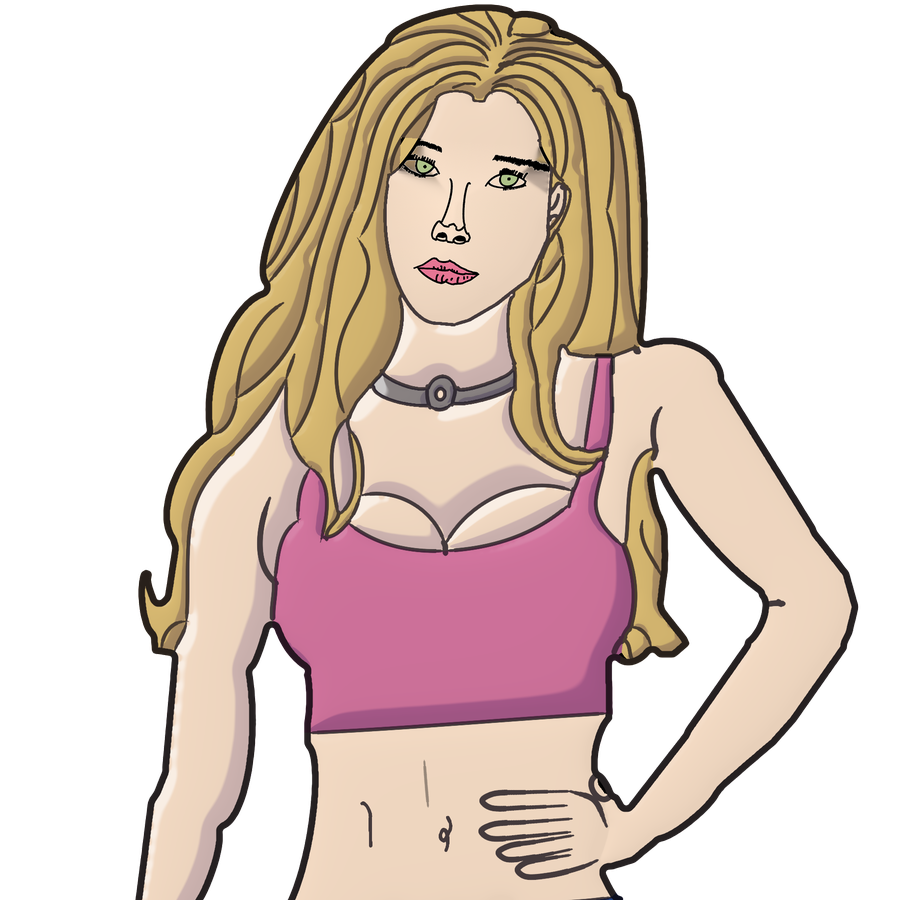
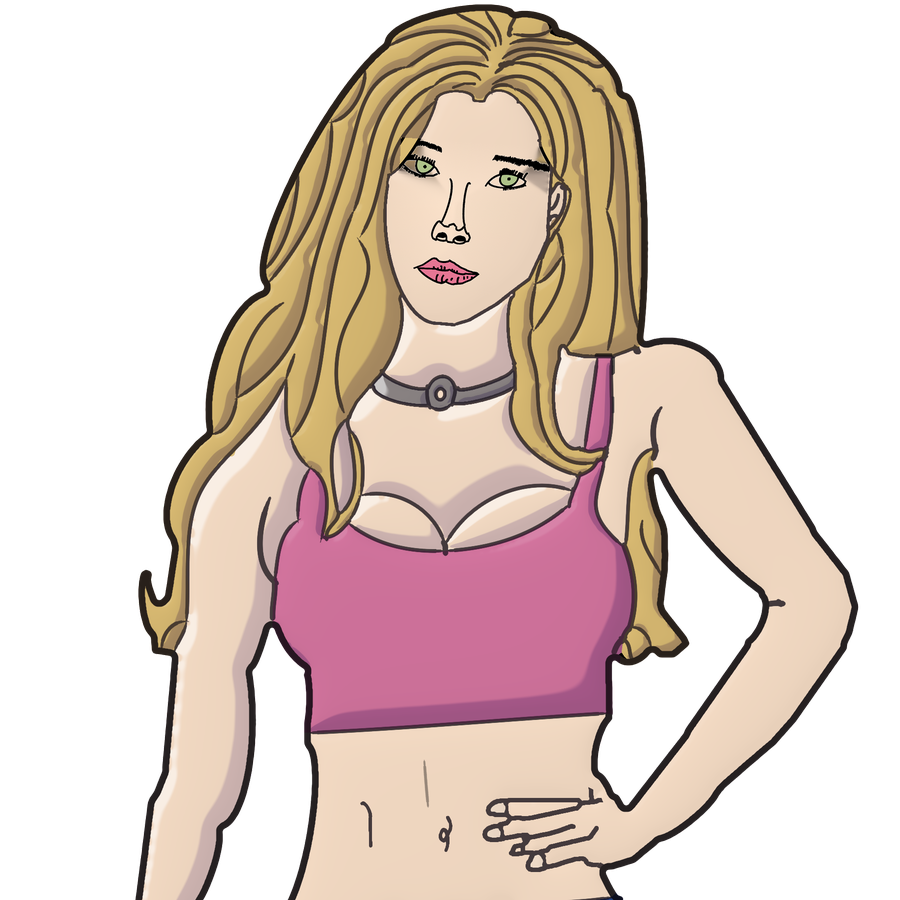
Use the drawn hands and Gus's drawn face, with even line weights
Elena's hands and Gus's face, ears and hairline go back to the original
drawing instead of the redrawn versions. Only the line weights change:
the outline gets the usual outline weight and every other line is
thinned to the inner weight round its middle, with the colour beside it
filling in where the ink is taken away.

Claude-Session: https://claude.ai/code/session_01Av3CChAmtEthREyWYpJj31

Changed region(s): [[0.5289, 0.8711, 0.6844, 0.9956]]

diff --git a/tools/refine_sprites.py b/tools/refine_sprites.py
@@ -126,6 +126,8 @@ LONG_DRIFT = 3.0
 ## SHAPES       changes to the figure's outline: "mirror" makes the outline in
 ##              region the mirror image of the other side about x = axis;
 ##              "shape" replaces it in region with these closed curves,
+## ORIGINAL     parts kept exactly as drawn, with only the line weights evened
+##              out to the same ones as everywhere else,
 ## REDRAWS      parts drawn again from scratch: the drawing in "erase" goes
 ##              (painted with the colour at "fill", if given, or else with the
 ##              colours round it) and these lines (curves through the points)
@@ -146,7 +148,6 @@ EXTRA_LINES = {
     ],
 }
 FEATURES = {
-    "gus": [(1848, 285), (2150, 285), (2150, 450), (2095, 600), (1905, 600), (1848, 450)],
     "zane": [(1912, 300), (2185, 300), (2185, 420), (2135, 572), (1960, 572), (1912, 420)],
     "emma": [(1912, 355), (2228, 355), (2228, 460), (2160, 655), (1985, 655), (1912, 460)],
     "elena": [(2047, 280), (2352, 300), (2345, 395), (2290, 420), (2230, 600), (2060, 600),
@@ -155,55 +156,16 @@ FEATURES = {
 SHAPES = {
     # Emma's right shoulder, as wide as her left one.
     "emma": [dict(mirror=2070, region=[(2330, 860), (2800, 860), (2800, 1290), (2330, 1290)])],
-    # Elena's hanging hand: two fingers and the thumb.
-    "elena": [dict(region=[(1395, 2100), (1625, 2100), (1625, 2345), (1395, 2345)],
-                   shape=[[(1420, 2090), (1600, 2090), (1590, 2120), (1560, 2140), (1530, 2155),
-                           (1514, 2180), (1510, 2240), (1506, 2292), (1495, 2314), (1479, 2314),
-                           (1470, 2302), (1461, 2316), (1444, 2315), (1432, 2297), (1425, 2240),
-                           (1425, 2160), (1428, 2110)],
-                          [(1545, 2100), (1600, 2095), (1597, 2180), (1589, 2230), (1571, 2249),
-                           (1551, 2242), (1544, 2205), (1548, 2160)]])],
 }
-REDRAWS = {
-    "gus": [
-        # The hairline, with its dip in the middle.
-        dict(erase=[(1810, 178), (2172, 172), (2172, 232), (1810, 238)],
-             lines=[[(1812, 248), (1828, 214), (1880, 204), (1955, 204), (1990, 222),
-                     (2025, 204), (2100, 199), (2150, 206), (2166, 230)]]),
-        # The ears.
-        dict(erase=[(1797, 300), (1772, 295), (1759, 315), (1761, 350), (1771, 384),
-                    (1791, 397), (1799, 378)],
-             fill=(1900, 420),
-             closed=[[(1797, 300), (1772, 295), (1759, 315), (1761, 350), (1771, 384),
-                      (1791, 397), (1799, 378)]],
-             lines=[[(1786, 322), (1777, 342), (1783, 366)]]),
-        dict(erase=[(2194, 300), (2215, 292), (2232, 311), (2232, 350), (2222, 385),
-                    (2200, 398), (2192, 378)],
-             fill=(2100, 420),
-             closed=[[(2194, 300), (2215, 292), (2232, 311), (2232, 350), (2222, 385),
-                      (2200, 398), (2192, 378)]],
-             lines=[[(2205, 322), (2215, 342), (2208, 366)]]),
-    ],
-    "elena": [
-        # The hand on her tummy: four fingers pointing left.
-        dict(erase=[(2195, 1598), (2385, 1596), (2442, 1622), (2470, 1676), (2445, 1758),
-                    (2412, 1797), (2195, 1802)],
-             fill=(2300, 1570),
-             lines=[[(2392, 1612), (2300, 1614), (2232, 1618), (2212, 1631), (2228, 1645),
-                     (2300, 1645), (2385, 1641)],
-                    [(2392, 1612), (2440, 1630), (2466, 1684)],
-                    [(2395, 1668), (2300, 1675), (2232, 1680), (2210, 1693), (2226, 1707),
-                     (2300, 1704), (2392, 1695)],
-                    [(2398, 1702), (2320, 1715), (2265, 1724), (2245, 1737), (2260, 1750),
-                     (2320, 1745), (2395, 1730)],
-                    [(2392, 1742), (2340, 1750), (2300, 1758), (2284, 1772), (2298, 1785),
-                     (2350, 1783), (2420, 1765), (2448, 1752)]]),
-        # The hanging hand (its outline is in SHAPES).
-        dict(erase=[(1395, 2100), (1625, 2100), (1625, 2345), (1395, 2345)],
-             fill=(1520, 2060),
-             lines=[[(1469, 2190), (1468, 2255), (1466, 2304)],
-                    [(1549, 2125), (1550, 2170)]]),
-    ],
+REDRAWS = {}
+ORIGINAL = {
+    # Gus's whole face with the ears and hairline.
+    "gus": [[(1735, 185), (2265, 185), (2265, 450), (2180, 560), (2100, 612), (1900, 612),
+             (1830, 560), (1735, 450)]],
+    # Elena's hands: the one on her tummy and the hanging one.
+    "elena": [[(2190, 1590), (2390, 1585), (2450, 1615), (2478, 1680), (2450, 1765),
+               (2415, 1800), (2190, 1805)],
+              [(1385, 2080), (1640, 2080), (1640, 2350), (1385, 2350)]],
 }
 
 ## The figure's outline: notches narrower than twice NOTCH go, and the edge
@@ -1022,6 +984,8 @@ def refine(rgba, scale, name):
 
     lcol = line_colour(cols, lab, lines)
     cov = np.maximum.reduce(list(lines.values()))
+    for polygon in ORIGINAL.get(name, []):
+        keep_original(rgba, drawn_ink, inside, polygon, col, cov, heavy, weights)
 
     out_rgb = col * (1 - cov[..., None]) + lcol * cov[..., None]
     out_rgb, alpha = shoe.overlay(out_rgb, alpha)
@@ -1074,6 +1038,66 @@ def outline(inside, weight):
 
     d = ndi.distance_transform_edt(inside)
     return np.clip(weight + 0.5 - d, 0, 1).astype(np.float32) * (d > 0)
+
+
+def keep_original(rgba, ink, inside, polygon, col, cov, heavy, weights):
+    """
+    Inside the polygon, puts the drawing back as it was, changing only the
+    line weights: the outline becomes a band of the outline weight along the
+    edge, and every other line is thinned down to the inner weight round its
+    middle (lines already thinner stay as they are). Where the ink is taken
+    away, the colour next to it carries on. col (fills) and cov (line
+    coverage) are changed in place; the edge of the polygon is feathered.
+    """
+
+    pts = np.asarray(polygon, float)
+    h, w = cov.shape
+    x0, y0 = [max(int(v) - 40, 0) for v in pts.min(0)]
+    x1 = min(int(pts[:, 0].max()) + 40, w)
+    y1 = min(int(pts[:, 1].max()) + 40, h)
+    win = (slice(y0, y1), slice(x0, x1))
+    region = shoes.Canvas(x0, y0, x1 - x0, y1 - y0).polygon(pts)
+
+    drawn = ink[win]
+    d_out = ndi.distance_transform_edt(inside[win])
+    edge = d_out <= heavy * 1.2
+
+    # The middles of the lines, without the little spurs skeletons grow.
+    skel = skeletonize(drawn)
+    paths, junction = trace_paths(skel)
+    dist = ndi.distance_transform_edt(drawn)
+    mid = junction.copy()
+    for p, js, je, closed in paths:
+        iy, ix = p[:, 0].astype(int), p[:, 1].astype(int)
+        mw = float(np.median(dist[iy, ix])) * 2.0
+        if (js != je) and len(p) < mw * 1.2:
+            continue
+        mid[iy, ix] = True
+    near_mid = ndi.distance_transform_edt(~mid) <= weights["inner"] / 2.0
+    keep = drawn & np.where(edge, d_out <= weights["outer"], near_mid)
+    keep_cov = np.clip((cv2.GaussianBlur(keep.astype(np.float32), (0, 0), 0.9) - 0.3) * 2.5, 0, 1)
+
+    # Colours: the drawing's own wherever it differs from the refined fill
+    # (eyes, mouth, the drawn shape of the hair), with the ink filled from
+    # the colour beside it.
+    rgb = rgba[win][..., :3].astype(np.float32)
+    # Clear of the lines' soft edges too, which are muddied with black.
+    source = (rgba[win][..., 3] > 200) & ~ndi.binary_dilation(drawn, iterations=4)
+    _, (iy, ix) = ndi.distance_transform_edt(~source, return_indices=True)
+    plain = rgb[iy, ix]
+    fill = col[win]
+    # The refined fills may have been re-toned (skin); carry that over.
+    m = region & (np.linalg.norm(plain - fill, axis=-1) < 40)
+    if m.sum() > 100:
+        plain = plain * (np.median(fill[m], axis=0) / np.maximum(np.median(plain[m], axis=0), 1))
+    differs = np.linalg.norm(plain - fill, axis=-1) > 40
+    new_fill = np.where(differs[..., None], plain, fill)
+
+    f = cv2.GaussianBlur(region.astype(np.float32), (0, 0), 4.0) * region
+    f = np.clip(f * 2.0, 0, 1)
+    new_cov = np.maximum(keep_cov, cov[win] * edge)
+    col[win] = fill * (1 - f[..., None]) + new_fill * f[..., None]
+    cov[win] = cov[win] * (1 - f) + new_cov * f
 
 
 def restore_features(rgba, out, polygon):
